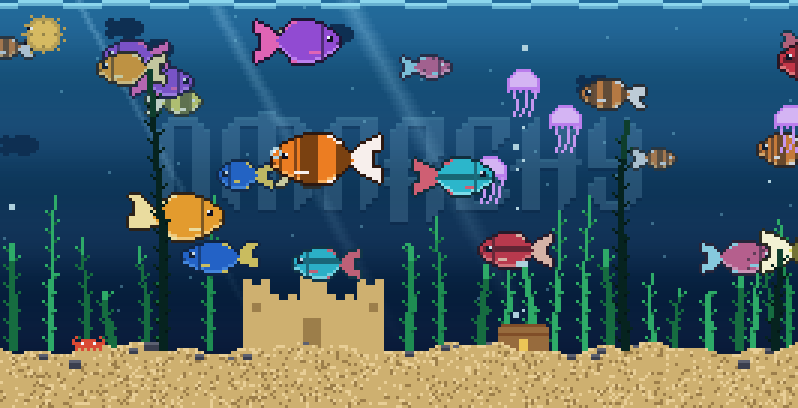
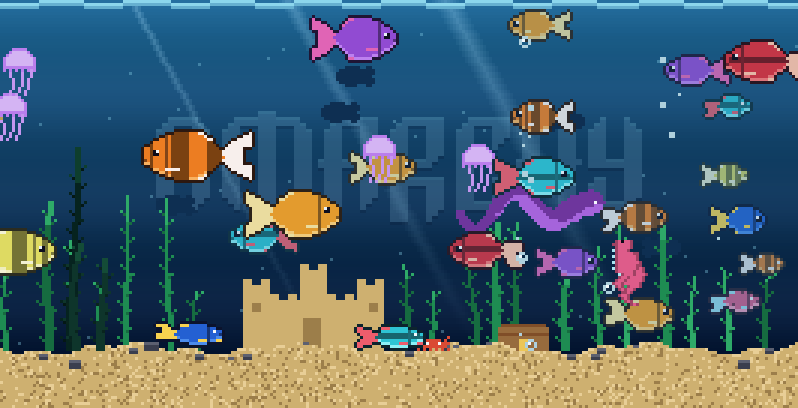
More life: shoals, an eel, seahorses, bottom feeders
The fish each wandered alone and swam through the castle, and every one of
them was the same silhouette with different colours.

The smaller ones now keep station on a school that drifts about the tank,
breaking formation to chase food and settling back afterwards. Three new
kinds, each with its own way of moving rather than just its own palette:
an eel that puts a long wave through itself along the bottom, seahorses
that hang in the weeds and bob, and bottom feeders that nose along the
sand with barbels out, stopping to root around. And nothing swims through
the sandcastle any more.

The eel's first pass read as a zigzag wire -- too thin, too tight a wave --
so the body is thicker and the wave much longer.

diff --git a/tools/test.py b/tools/test.py
@@ -87,6 +87,26 @@ for cols, rows in SIZES:
     except Exception as error:                      # noqa: BLE001
         check("draws %dx%d" % (cols, rows), False, repr(error))
 
+# -- the cast, and that nothing swims through the castle --------------------
+
+for cols, rows in ((160, 45), (320, 81)):
+    tank, _ = run_tank(cols, rows, Opts(), frames=40)
+    kinds = {type(a).__name__ for a in tank.actors}
+    for wanted in ("Fish", "Eel", "Seahorse", "BottomFeeder", "Crab", "Jelly"):
+        check("%dx%d has a %s" % (cols, rows, wanted), wanted in kinds, str(sorted(kinds)))
+    check("%dx%d has shoals" % (cols, rows), len(tank.schools) > 0)
+    shoaling = [a for a in tank.actors if getattr(a, "school", None) is not None]
+    check("%dx%d has fish in the shoals" % (cols, rows), len(shoaling) >= 3)
+    if tank.castle_box:
+        x0, y0, x1, y1 = tank.castle_box
+        inside = [a for a in tank.actors
+                  if isinstance(a, ft.Fish) and not isinstance(a, ft.BottomFeeder)
+                  and a.x + a.w > x0 and a.x < x1 and a.y + a.h > y0 and a.y < y1]
+        check("%dx%d: nothing swims through the castle" % (cols, rows), not inside,
+              "%d inside" % len(inside))
+    check("%dx%d has a far layer" % (cols, rows), len(tank.backdrop) > 0)
+    check("%dx%d has fronds up front" % (cols, rows), len(tank.front_weeds) > 0)
+
 # -- every installed theme ---------------------------------------------------
 
 themes = ft.installed_themes()

diff --git a/README.md b/README.md
@@ -33,11 +33,18 @@ The tank has front-to-back depth: shapes too far away to have colour drift
 across the back wall, and a few fronds close to the glass pass in front of
 everything, darker and bluer the way a near foreground goes.
 
-Swimming in the tank: generated fish species (each with a forked tail
-that flaps, a dorsal fin, a gill line and a proper eye), a pufferfish, drifting
+Swimming in the tank: generated fish species (each with a forked tail that
+flaps, a dorsal fin, a gill line and a proper eye), an eel putting a wave
+through itself along the bottom, seahorses hanging in the weeds, bottom
+feeders nosing along the sand with their barbels out, a pufferfish, drifting
 jellyfish, a crab that patrols the sand, bubbles from fish mouths and sand
 vents, swaying seaweed, a sandcastle, a treasure chest, god rays from the
 surface, drifting plankton and a rippling waterline.
+
+The smaller fish form loose shoals rather than each wandering off alone --
+they keep station on a school that drifts about the tank, breaking formation
+to chase food and settling back afterwards. Nothing swims through the
+sandcastle.
 
 ## Terminal size
 
